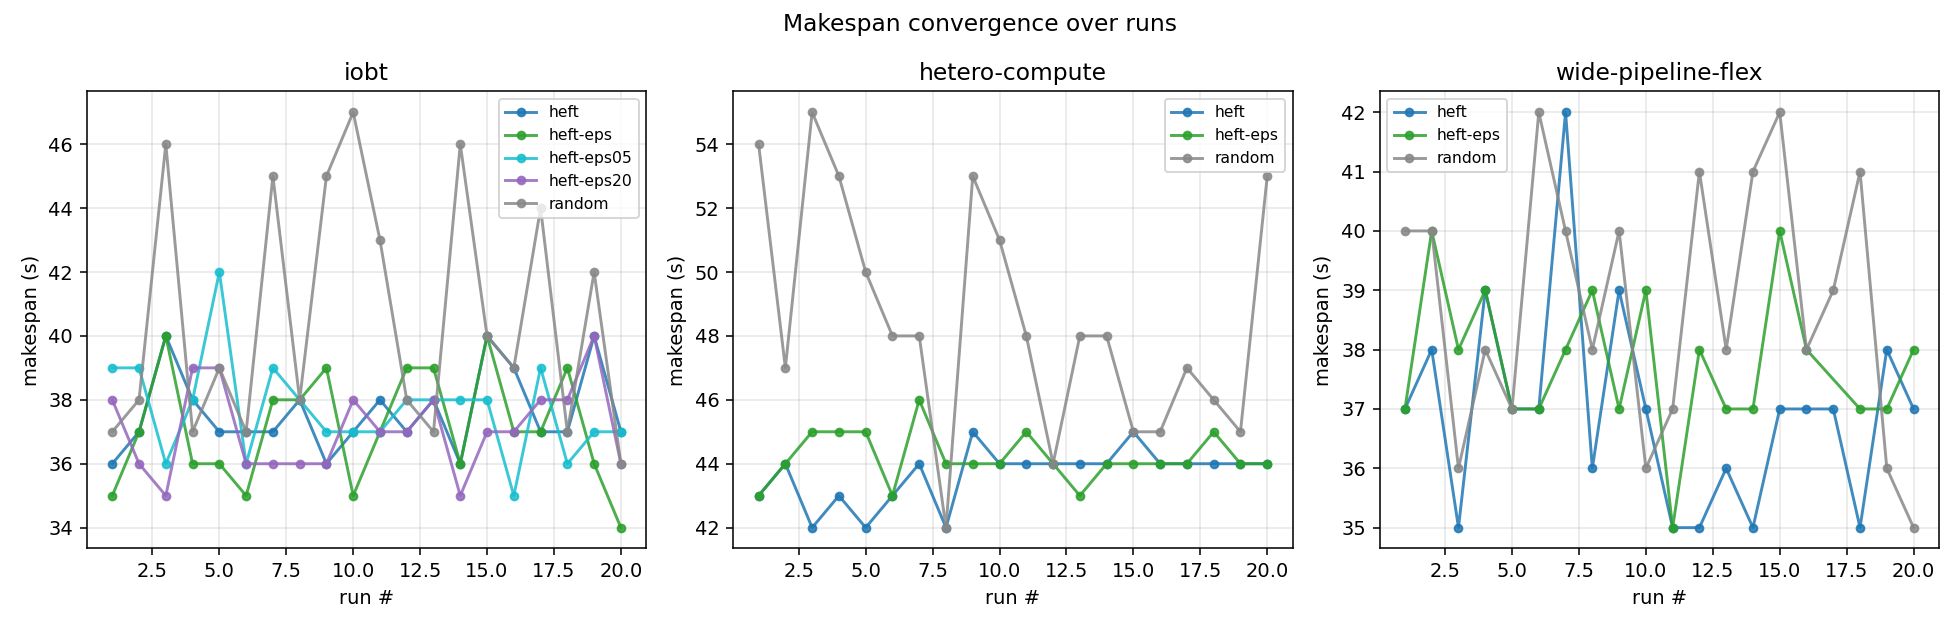
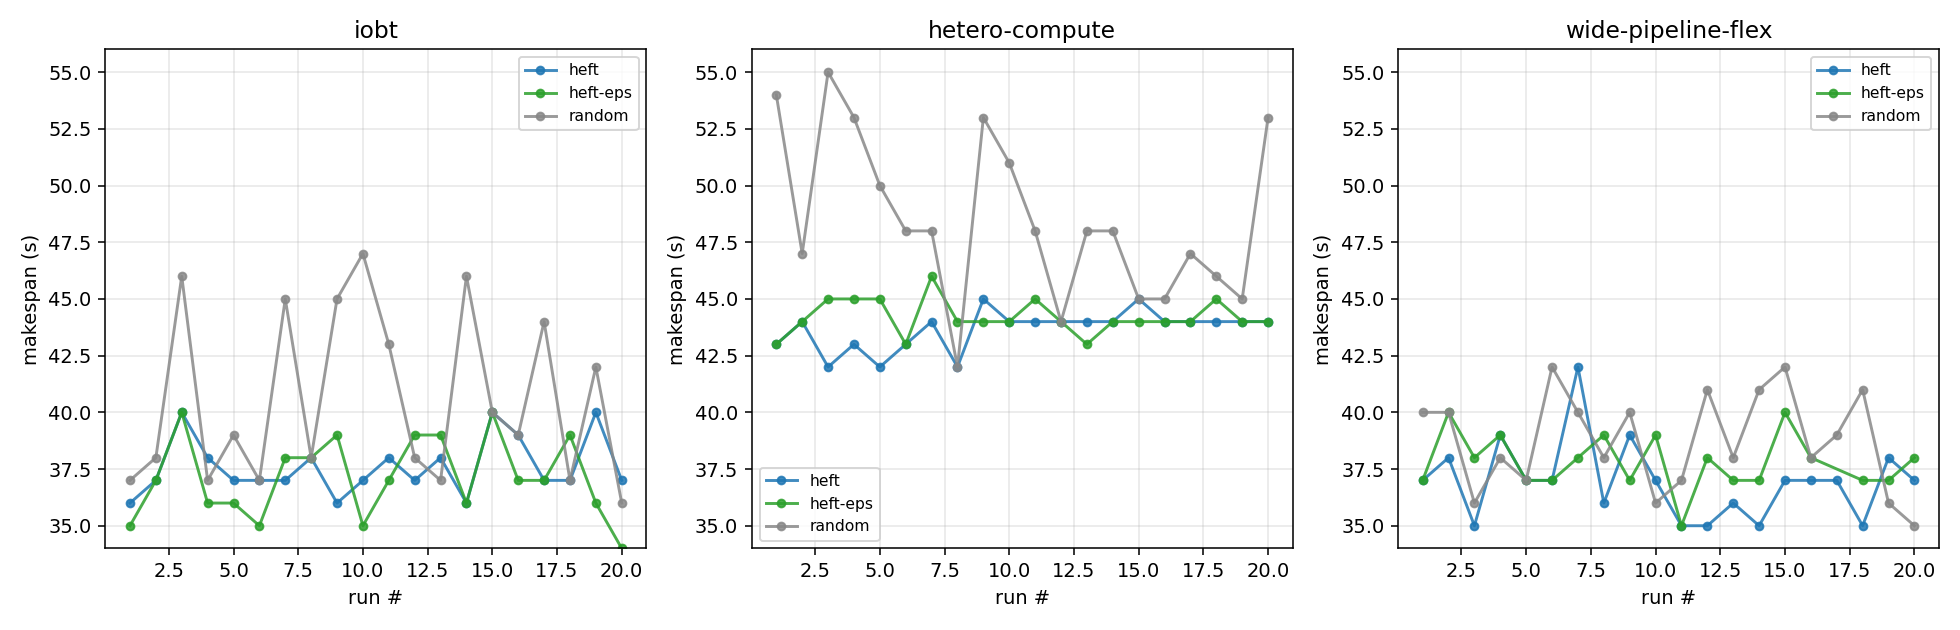
eval/ui: drop ε-sweep configs from main plots; tidy capture + Gantt
- plot-results.py: distribution and convergence figures now skip
  heft-eps05 / heft-eps20 (kept only for the iobt ε ablation table),
  and convergence axes use a fixed y-range per matrix so v1 and v2
  figures are directly comparable.
- Regenerated makespan-distribution and makespan-convergence figures
  under archive-matrix-v1/figures/ and archive-matrix-v2/figures/.
- Add archive-matrix-v2/figures/image.png (snapshot used in the deck).
- iobt capture/task.py: drop the dev comments now that the path is
  stable; behaviour unchanged.
- UnifiedGantt.tsx: temporarily hide networking-flow bars and legend
  entries (predicted + actual) behind a clearly-marked block — easier
  to read the exec-only Gantt during paper-figure prep. Restore by
  reverting the marked block.
- presentation/example_task.py: sample task source for the deck.

diff --git a/ui/src/components/UnifiedGantt.tsx b/ui/src/components/UnifiedGantt.tsx
@@ -23,12 +23,14 @@ function taskColor(name: string, names: string[]): string {
   return TASK_COLORS[names.indexOf(name) % TASK_COLORS.length]
 }
 
+// TEMP: keep this around — used by the commented-out network rendering blocks.
 function fmtBytes(bytes: number): string {
   if (bytes >= 1_000_000_000) return `${(bytes / 1_000_000_000).toFixed(1)} GB`
   if (bytes >= 1_000_000) return `${(bytes / 1_000_000).toFixed(0)} MB`
   if (bytes >= 1_000) return `${(bytes / 1_000).toFixed(0)} KB`
   return `${bytes} B`
 }
+void fmtBytes
 
 function maxOverlap(rows: Array<{ s: number; e: number }>): number {
   if (rows.length <= 1) return rows.length
@@ -78,8 +80,14 @@ export default function UnifiedGantt({ dag }: Props) {
       : (Date.now() - refMs!) / 1000,
   }))
 
-  const predictedFlows: PredictedNetworkFlow[] = dag.predictedNetworkFlows ?? []
-  const actualFlows: ActualNetworkFlow[] = dag.actualNetworkFlows ?? []
+  // TEMP: networking bars disabled — restore by reverting this block + the
+  // two commented JSX rendering blocks below + the two commented legend
+  // entries + LEGEND_ITEMS = 4.
+  const _predictedFlows: PredictedNetworkFlow[] = dag.predictedNetworkFlows ?? []
+  const _actualFlows: ActualNetworkFlow[] = dag.actualNetworkFlows ?? []
+  void _predictedFlows; void _actualFlows
+  const predictedFlows: PredictedNetworkFlow[] = []
+  const actualFlows: ActualNetworkFlow[] = []
 
   // Union of nodes.
   const nodeSet = new Set<string>()
@@ -157,7 +165,7 @@ export default function UnifiedGantt({ dag }: Props) {
 
   // Legend: vertically stacked swatches below the axis.
   const LEGEND_ROW_H = 16
-  const LEGEND_ITEMS = 4
+  const LEGEND_ITEMS = 2 // TEMP: was 4 — networking legend entries commented out below.
   const AXIS_LABEL_H = 22
   const MB = AXIS_LABEL_H + 12 + LEGEND_ITEMS * LEGEND_ROW_H + 10
 
@@ -322,7 +330,8 @@ export default function UnifiedGantt({ dag }: Props) {
           )
         })}
 
-        {/* Net predicted — two bars per flow */}
+        {/* TEMP: networking bars disabled. Restore the two blocks below to bring them back. */}
+        {/*
         {predictedFlows.flatMap((f, i) => {
           const color = taskColor(f.fromTask, taskNames)
           const x = xs(f.start)
@@ -345,7 +354,6 @@ export default function UnifiedGantt({ dag }: Props) {
           return [render('src', f.srcNode), render('dst', f.dstNode)].filter(Boolean) as JSX.Element[]
         })}
 
-        {/* Net actual — two bars per flow */}
         {actualFlows.flatMap((f, i) => {
           const color = f.ok ? taskColor(f.fromTask, taskNames) : '#ef4444'
           const x = xs(f.start)
@@ -377,6 +385,7 @@ export default function UnifiedGantt({ dag }: Props) {
           }
           return [render('src', f.srcNode), render('dst', f.dstNode)].filter(Boolean) as JSX.Element[]
         })}
+        */}
 
         {/* X axis */}
         <line x1={ML} y1={MT + totalInnerH} x2={ML + innerW} y2={MT + totalInnerH} stroke={axisStroke()} strokeWidth={1} />
@@ -397,6 +406,8 @@ export default function UnifiedGantt({ dag }: Props) {
             <rect x={0} y={0} width={14} height={10} fill="#9ca3af" fillOpacity={0.9} rx={1} />
             <text x={20} y={5} dominantBaseline="middle" fill={legendFill()} fontSize={11}>Exec actual (solid fill)</text>
           </g>
+          {/* TEMP: networking legend entries disabled. Restore below to bring them back. */}
+          {/*
           <g transform={`translate(0, ${LEGEND_ROW_H * 2})`}>
             <rect x={0} y={0} width={14} height={10} fill="transparent" stroke="#9ca3af" strokeWidth={1.2} strokeDasharray="5 3" rx={1} />
             <text x={20} y={5} dominantBaseline="middle" fill={legendFill()} fontSize={11}>Net predicted (dashed outline — src light fill, dst hollow)</text>
@@ -406,6 +417,7 @@ export default function UnifiedGantt({ dag }: Props) {
             <rect x={18} y={0} width={14} height={10} fill="#9ca3af" fillOpacity={0.35} stroke="#9ca3af" strokeWidth={1} rx={1} />
             <text x={38} y={5} dominantBaseline="middle" fill={legendFill()} fontSize={11}>Net actual (src solid / dst faded+outlined)</text>
           </g>
+          */}
         </g>
       </svg>
     </div>

diff --git a/presentation/example_task.py b/presentation/example_task.py
@@ -1,0 +1,68 @@
+"""
+Example DSF task — the four-function programming model.
+
+This is the entire contract a user writes for a one-shot (ODAG) task.
+The DSFTask object reads everything it needs from environment variables
+that the odag-controller injected when it created this pod, so user code
+never touches Kubernetes, ZMQ, or the data-agent directly.
+"""
+
+from dsf_sdk import DSFTask
+
+
+# ---------------------------------------------------------------------------
+# 1. INIT — instantiate DSFTask
+# ---------------------------------------------------------------------------
+# Reads injected env vars: DSF_TASK_NAME, DSF_DEPS, DSF_SUCCESSORS, NODE_NAME,
+# DSF_RUNTIME, DSF_DATA_SIZE, etc. Selects the right transport (file for
+# ODAG, pubsub for CDAG) automatically. Reports state="Executing" to the
+# local data-agent.
+
+task = DSFTask()
+
+
+# ---------------------------------------------------------------------------
+# 2. RECV — pull inputs from upstream tasks
+# ---------------------------------------------------------------------------
+# For ODAG (file transport): a local file read. The controller has already
+# verified that every upstream's output is DataReady on this node before
+# starting this pod, so the file is guaranteed present.
+
+# Single upstream:
+data = task.recv("upstream-task-name")
+
+# Or, multiple upstreams at once:
+inputs = task.recv_all()           # -> {"dep-a": ..., "dep-b": ...}
+
+# Skip if this is a root task (task.is_root == True).
+
+
+# ---------------------------------------------------------------------------
+# 3. PROCESS — your task logic goes here
+# ---------------------------------------------------------------------------
+# Anything Python: ML inference, transforms, aggregations, file writes.
+# DSF doesn't constrain or observe what happens in this block.
+
+result = my_function(data)        # noqa: F821 — placeholder for user code
+
+
+# ---------------------------------------------------------------------------
+# 4. SEND — push outputs to downstream successors
+# ---------------------------------------------------------------------------
+# For ODAG (file transport): writes the payload to the local hostPath and
+# asks the local data-agent to push it to every cross-node successor in the
+# background. send() returns immediately; the pod can exit before the
+# transfer completes — the data-agent owns the delivery from here.
+
+task.send(result)
+
+# Skip if this is a leaf task (task.is_leaf == True).
+
+
+# ---------------------------------------------------------------------------
+# 5. CLOSE — release resources
+# ---------------------------------------------------------------------------
+# Reports state="Done" to the data-agent and closes any open sockets / file
+# handles. Safe to call even if send() was skipped.
+
+task.close()

diff --git a/eval/network-aware/plot-results.py b/eval/network-aware/plot-results.py
@@ -87,8 +87,11 @@ def plot_makespan_distribution(all_data):
         axes = [axes]
     for ax, odag in zip(axes, ODAG_ORDER):
         data = all_data.get(odag, {})
+        distribution_skip = {"heft-eps05", "heft-eps20"}
         labels, values, colors = [], [], []
         for cfg, runs in sorted(data.items()):
+            if cfg in distribution_skip:
+                continue
             vals = [r["makespan"] for r in runs if r["makespan"] is not None and r["iter"] > 4]
             if not vals:
                 continue
@@ -117,9 +120,12 @@ def plot_convergence(all_data):
     fig, axes = plt.subplots(1, len(ODAG_ORDER), figsize=(14, 4.5))
     if len(ODAG_ORDER) == 1:
         axes = [axes]
+    convergence_skip = {"heft-eps05", "heft-eps20"}
     for ax, odag in zip(axes, ODAG_ORDER):
         data = all_data.get(odag, {})
         for cfg, runs in sorted(data.items()):
+            if cfg in convergence_skip:
+                continue
             xs = [r["iter"] for r in runs if r["makespan"] is not None]
             ys = [r["makespan"] for r in runs if r["makespan"] is not None]
             if not xs:
@@ -129,9 +135,10 @@ def plot_convergence(all_data):
         ax.set_title(odag)
         ax.set_xlabel("run #")
         ax.set_ylabel("makespan (s)")
+        ymax = 75 if "archive-matrix-v2" in str(FIGS) else 56
+        ax.set_ylim(34, ymax)
         ax.grid(True, alpha=0.3)
         ax.legend(fontsize=8)
-    fig.suptitle("Makespan convergence over runs")
     fig.tight_layout()
     fig.savefig(FIGS / "makespan-convergence.png", dpi=140)
     plt.close(fig)

diff --git a/examples/iobt-mission-snapshot-odag/tasks/capture/task.py b/examples/iobt-mission-snapshot-odag/tasks/capture/task.py
@@ -20,12 +20,10 @@ RUNTIME = task.expected_runtime or 3.0
 
 print(f"[{task.name}] node={task.node}  data_size={DATA_SIZE}  runtime={RUNTIME}s", flush=True)
 
-# --- simulate capture delay ---
 if RUNTIME > 0:
     time.sleep(min(RUNTIME, 5.0))
 
-# --- generate deterministic raw burst ---
-# Use a repeating block seeded by task name so each sensor's data differs.
+
 t0 = time.perf_counter()
 seed = hashlib.md5(task.name.encode()).digest()  # 16-byte seed
 block = seed * 4096  # 64 KB block
@@ -35,11 +33,14 @@ elapsed_gen = time.perf_counter() - t0
 
 print(f"[{task.name}] generated {len(raw)} bytes in {elapsed_gen:.3f}s", flush=True)
 
-# --- send to preprocess-i ---
 t1 = time.perf_counter()
+
 task.send_raw(raw)
+
 elapsed_send = time.perf_counter() - t1
 
 print(f"[{task.name}] send_raw() completed in {elapsed_send:.3f}s", flush=True)
 print(f"[{task.name}] done", flush=True)
+
+
 task.close()
